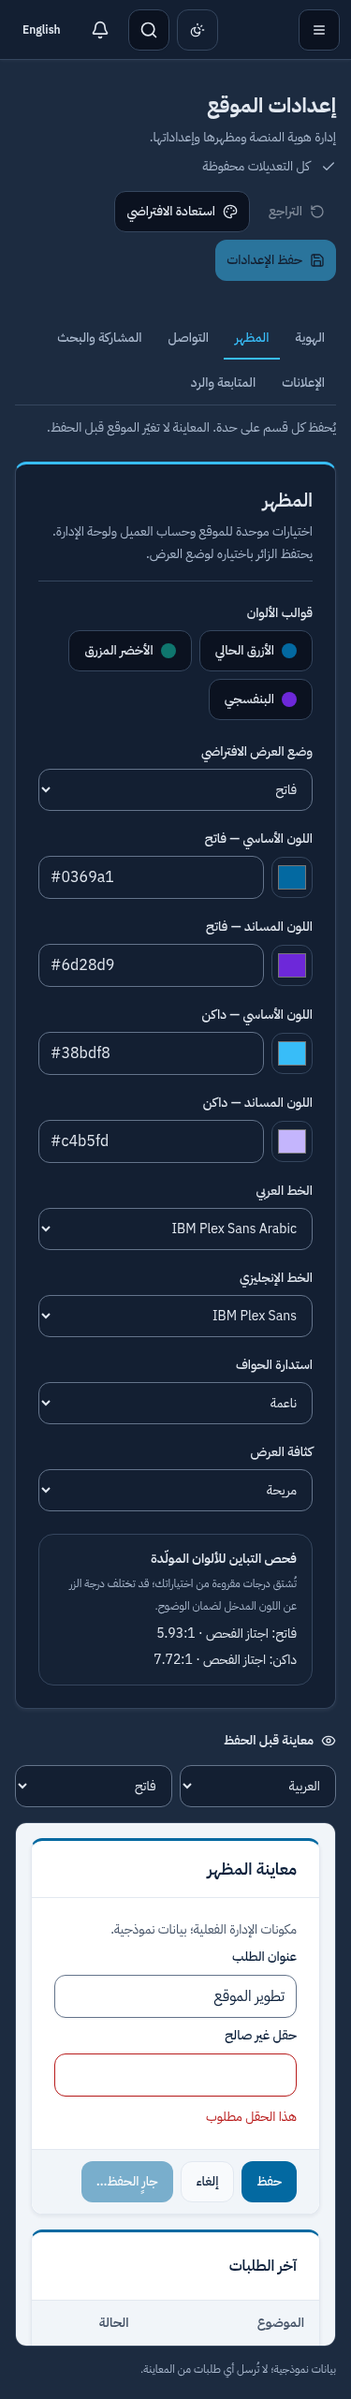
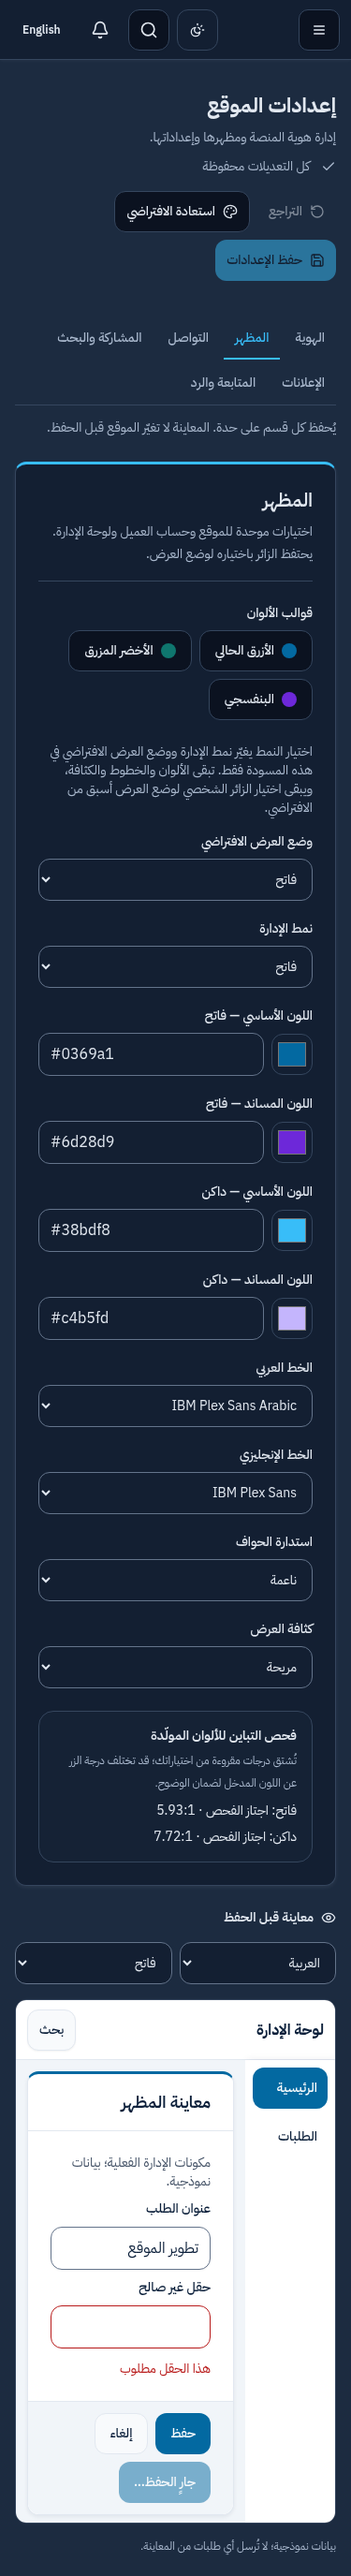
docs(admin): publish final AdminLTE visual and validation evidence (#176)

diff --git a/docs/migration/adminlte-176.md b/docs/migration/adminlte-176.md
@@ -1,0 +1,50 @@
+# AdminLTE administration implementation — #176 / PR #177
+
+## Provenance and workflow
+
+The environment initially contained clean `work` at `f3935f3ccfccbb205707619888c352aba68d1517`. Read AGENTS.md, CONTRIBUTING.md and the existing design-system documentation, confirmed both origin URLs as `https://github.com/so7ob/web.git`, fetched develop and independently checked remote head `4922dcfc1823e730d0f8d04341516fde9eb9f6a2` (also rechecked before publication). Reviewed issue inventory through #175, #168's nine-key transport scope, and open PRs (none before this work). Created #176, branched `feat/176-adminlte-design-system` from that develop commit and opened draft PR #177 to develop. No merge, deployment, branch-protection change or production operation.
+
+AdminLTE stable v4.10.1: `e13df78a4d0c287e5fa57308e293f63e44e9dd0f`. [Mapping, dependency boundary, profiles and license](../design-system/adminlte.md). Implementation commits: `85acef19de6f58694375bcd382645ed5aad18e60` and `6ccf6a3713dd6adb1d0d77ca45bf00f49c1a434c`, `bdaf84e4a1bd119ae370225f7072f737b8d9bdf0`, and `e1df3c9ad3fa8788d82638d398814d3219fa9429`. The final hover-state correction makes search text/icons inherit the outline button foreground and gives the shortcut chip its own accent pair.
+
+## Delivered behavior
+
+Shared administration shell/navigation, keyboard-operable desktop collapse and existing Radix mobile drawer; reusable card slots used by the dashboard; outline cards/info boxes; table striping and hover/focus/selection; form invalid/disabled states and settings-save busy semantics. Existing actions, routes, permission filters and draft ownership remain intact.
+
+Four coordinated styles: light, semi-dark sidebar, full dark, colored header/dark sidebar. The optional validated `appearance.adminStyle` passes the existing DTO allowlist and checked settings/revision pipeline. There is no schema migration. Missing key preserves previous behavior and the nine existing appearance values. Profile selection proposes only style + default mode in the unsaved draft; it retains fonts, palette, density, radius and personal mode precedence. No #168 import/export or unrelated backlog feature.
+
+Appearance previews use actual React Button/Input/Panel/Table/navigation primitives in a sandboxed iframe via a React portal. The existing theme provider remains the owner; copied compiled styles and draft semantic tokens keep the frame isolated. Tests inspect the rendered frame DOM rather than an empty srcdoc shell. Settings route: 33.25 kB / 11.66 kB gzip, versus 27.85 / 10.28 baseline; an initial server-renderer approach was corrected after measuring 218.49 / 68.16.
+
+## Verification and evidence
+
+Final local runtime: Node 24.21.0, npm 10.8.2, MariaDB 10.11.18. Unit and browser databases are separate loopback-only synthetic containers. Browser fixtures use normal CSRF/credentials login, never fabricated sessions or password resets. No test assertion, retry setting, coverage gate or security boundary was disabled.
+
+| Check | Result |
+| --- | --- |
+| ESLint + design-token guard | Passed; 236 interface source files checked, existing three exceptions unchanged |
+| TypeScript | Passed |
+| Unit/integration | 1149 passed in 71 files on a fresh isolated unit database |
+| Build | Passed, client and SSR |
+| Independence | 3 passed plus standalone runtime scan |
+| CI-policy/gate tests | 14 passed |
+| Browser regression matrix after both interaction-state fixes | 34 passed: 16 shell/profile cases, 8 admin-layout cases, 10 settings-appearance cases |
+| Wider platform tour, saved density and theme preference | 3 passed: ar/light desktop platform tour, saved density/radius, and theme preference |
+| `git diff --check` | Passed |
+| Full pinned browser / infra / final CI | See limitations below; not claimed passed |
+
+The 16 profile/shell cases cover Arabic/English, RTL/LTR, 375/1280, both personal modes, all four profiles, main document and actual-preview axe, mobile drawer axe, no page overflow, save/reload persistence, preserved personal preference, compact 44px controls and focus restoration. Contract tests add extreme-palette chrome contrast and missing-key compatibility. Integration tests add checked persistence, stale revision rejection, denied permission and invalid enum rejection.
+
+[Before/after and profile screenshots](evidence/adminlte-176/README.md) are actual synthetic rendered views. Baseline screenshots were captured from a detached checkout of verified develop with equivalent fixtures. Profile screenshots show the preview draft; tests subsequently save/reload. Build stamps in the first local 34-case run say `85acef19…+dirty`; the intermediate hover run says `6ccf6a37…+dirty`. Final source including the adjacent-control correction is `e1df3c9a…`; its successful 34-case run is stamped `e1df3c9a…+dirty` because evidence documents/images were pending. This is not represented as a clean-build provenance stamp. Exact-commit CI must be assessed separately.
+
+## Corrected findings and remaining limitations
+
+- Initial CI run [38834648193](https://github.com/so7ob/web/actions/runs/38834648193) failed because the new spec was not registered. Registered it in the mandatory exported `design` catalog; the existing runner consumes that list and its locale/mode grep selects two AdminLTE cases per cell. The fail-closed test remains intact. The subsequent exact-source run is [38836446010](https://github.com/so7ob/web/actions/runs/38836446010); completed successfully, including all eight design cells, four functional shards, smoke, infrastructure and the required aggregate gate. It predates the hover-state fixes and cannot establish final-head acceptance.
+- Independent review [6206138474](https://github.com/so7ob/web/pull/177#issuecomment-6206138474) identified colored-header search hover contrast. A new browser assertion reproduced the mismatched child foreground on the old build (1 expected regression failure). Search text/icons now inherit the button state color; the shortcut uses its own accent/foreground pair. Added actual focused/hovered search axe, visible focus and child-color assertions, plus hover axe for every adjacent topbar Button. The native theme selector keeps its existing paired surface and focus-within outline. Adjacent-button coverage then exposed a second dark colored-header language-button contrast failure (2.34:1), caused by the shared ghost variant's translucent hover surface (intermediate run: 32 passed, 2 failed, desktop/mobile Arabic dark). A scoped opaque accent/foreground hover pair corrects that combination; state audits wait for CSS transitions to finish rather than sampling intermediate colors.
+- First profile HTTP checks exposed a missing explicit SettingsBody DTO field; fixed without a wildcard. Colored-header axe then exposed nested surface-reset foregrounds; scoped base aliases now preserve paired text colors. Final local matrix passed after those concrete fixes, without retries.
+- A repeated unit run accidentally reused the browser fixture database and produced 17 failures in migration/file/count assertions. Re-ran against a separately provisioned empty isolated unit database: 1149/1149 passed. No destructive reset of existing data or assertion change.
+- The locked Playwright Chromium 151 download returns `403 Domain forbidden` from cdn.playwright.dev. Local rendering uses installed Chromium 154.0.8037.57 through an ignored config overriding only executablePath/report location. The committed Playwright config and CI remain pinned. A full substitute run was interrupted to replace the oversized preview implementation after 41 passes, 1 interrupted and 504 unrun; it is not full-suite evidence. The final full catalog has 554 cases and remains a required CI gate.
+- `test:infra` was attempted: no installed nginx initially; a local extracted Debian nginx binary verified syntax, then failed at its compiled default `/var/lib/nginx/body`, unavailable in this restricted environment. No host service/configuration was changed. Full infra remains unverified locally.
+- GitHub CLI REST/GraphQL returned Forbidden; connected GitHub tools successfully handled issue/PR reads and writes. Branch-protection settings could not be inspected through that CLI and were not changed.
+
+Only four coordinated profiles and the existing three palette presets are delivered, not the live demo's 17 skins. Keep PR draft until exact-head CI and independent review complete. Rollback is a reviewed revert; earlier code ignores the additive stored style key, and no data/schema rollback is necessary.
+
+Final local interaction regression run: **34 passed in 5.3 minutes**, source `e1df3c9ad3fa8788d82638d398814d3219fa9429`. Evidence-only publication does not change application source. Final remote CI is pending publication; keep the PR draft for independent review and exact-head checks.

diff --git a/docs/migration/evidence/adminlte-176/README.md b/docs/migration/evidence/adminlte-176/README.md
@@ -7,6 +7,18 @@ Before/after screenshots use the repository's isolated MariaDB/browser fixtures 
 - [Before dashboard](before/dashboard-en-light-desktop.png) / [after dashboard](after/dashboard-en-light-desktop.png)
 - [Before Arabic mobile appearance](before/appearance-ar-dark-mobile.png) / [after Arabic mobile appearance](after/appearance-ar-dark-mobile.png)
 
-The first after-dashboard capture predates converting its two lower cards to PanelHeader slots. All other shown adaptations were present; final verification status is recorded in the implementation report.
+Final captures include the shared PanelHeader slots and React portal preview. [Compact draft preview](after/appearance-compact-draft-ar-mobile.png) also verifies that a local density change updates actual controls without saving settings.
 
 Visual inspection confirmed substantial icon blocks/outline cards, active navigation, muted workspace and a real-component preview. Appearance preview remains independently light by default even when the host is dark, as its explicit preview-mode selector requests. It does not change the saved theme.
+
+Final coordinated profiles (implementation source `e1df3c9ad3fa8788d82638d398814d3219fa9429`):
+
+- [Light](profiles/light-en-desktop.png)
+- [Semi-dark sidebar](profiles/semi-dark-en-desktop.png)
+- [Full dark](profiles/full-dark-en-desktop.png)
+- [Colored header and dark sidebar](profiles/colored-en-desktop.png)
+- [Arabic mobile drawer](profiles/colored-ar-mobile-navigation.png)
+
+Profile images deliberately capture the independent preview before the save step, so an unsaved-default-mode indicator can be visible. The browser cases then save through the checked UI endpoint, reload, verify persisted style/default mode, and verify the personal mode preference is unchanged. Final capture matrix: four profiles × two languages × two personal modes × two viewports, plus drawer/compact states. They show four implemented profiles, not all 17 demo skins. The full-dark image uses the dark personal mode; an explicit personal light choice remains respected.
+
+The colored search hover/focus regression was reproduced in the actual browser before correction. [Before](profiles/colored-search-hover-before.png), [corrected English light](profiles/colored-search-hover-en-light.png), [corrected Arabic dark](profiles/colored-search-hover-ar-dark.png). The colored topbar uses an opaque accent hover surface so dark ghost controls cannot blend into an insufficient-contrast background. Text/icons now inherit the Button interaction foreground; the shortcut has an explicit accent/foreground pair. The profile matrix checks focus visibility, hovered child colors and axe for search and adjacent topbar buttons.
